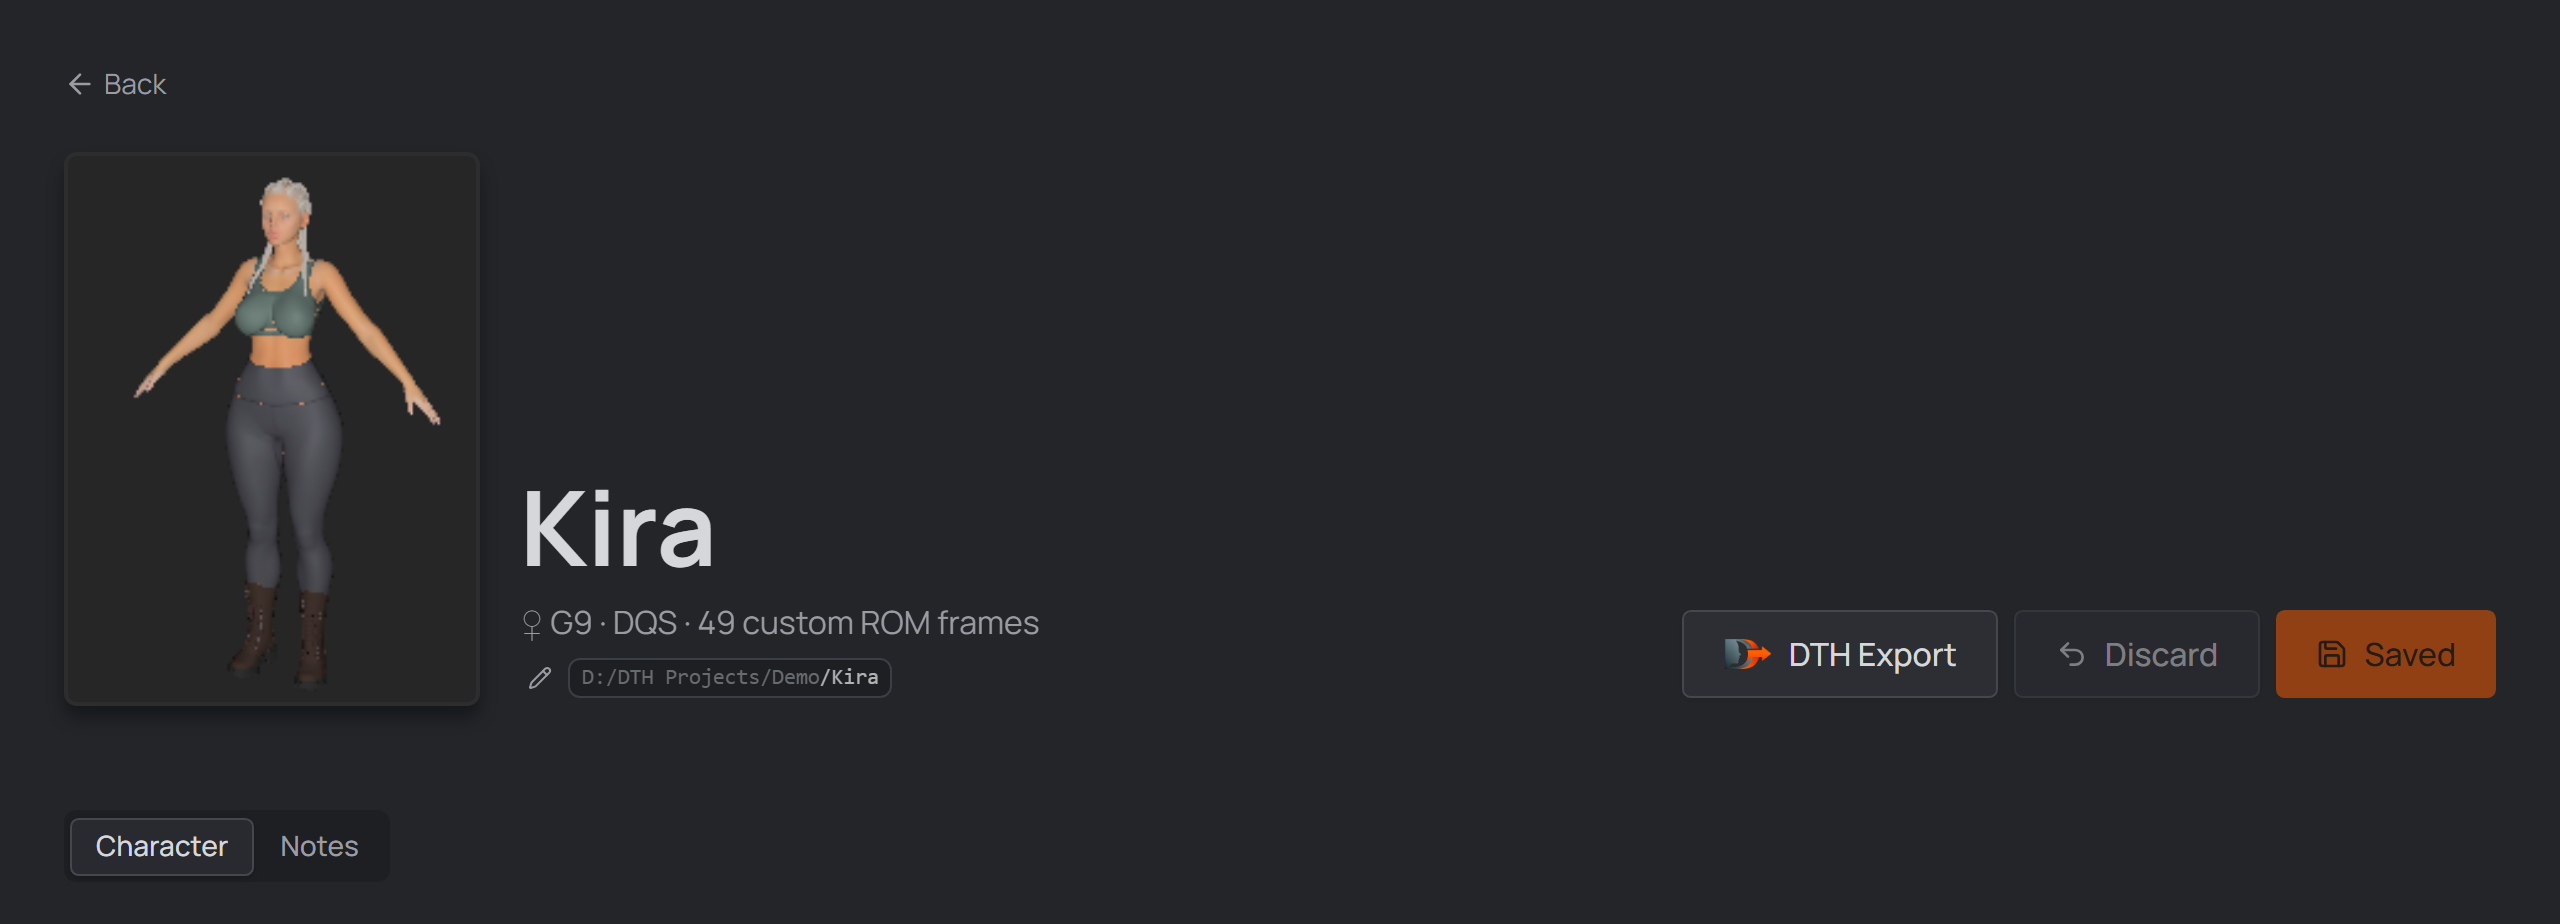
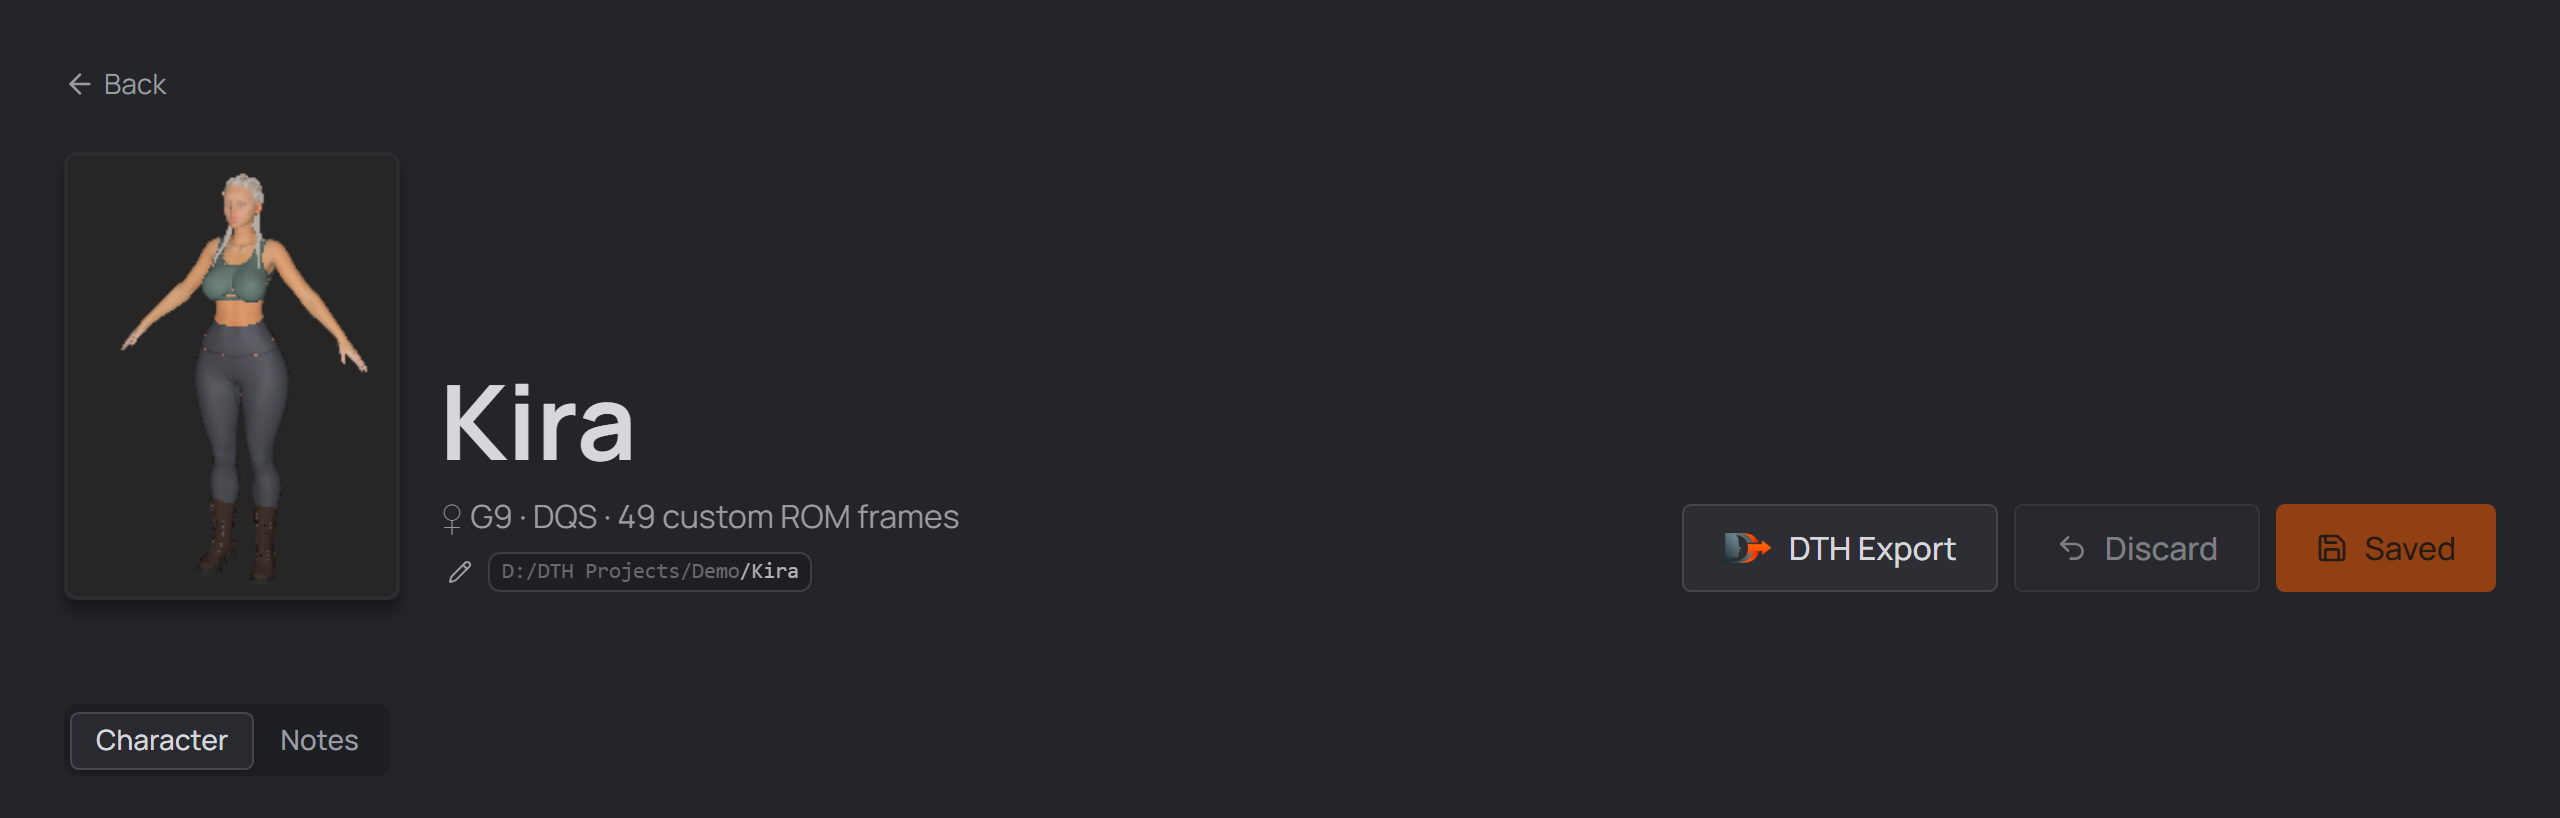
feat(web): dial the character-header portrait back to 168x224 (#667)
* feat(web): dial the character-header portrait back to 168x224

The 208x277 resting portrait read as too dominant next to the title.
One proportional notch down (~80%): wrapper 168x224 (same 3:4), the
collapsed sticky tile 120 -> 96, and every coupled constant scaled with
it - the over-scan image layout (316 -> 254, so the resting frame still
paints 1:1 with no GPU upscaling), renderPx for the Lanczos
pre-downscale, the centering margins, the dth-avatar-shrink keyframes,
and the "Back | Scroll Up" offset (228 -> 188). The pan/zoom
choreography is percentage/scale-based and needed no change.

Claude-Session: https://claude.ai/code/session_01Fhwa5xWus8FxN9k5Z4c4Ee

* docs(guide): regenerate character-header.png at the new portrait size

The guide's character-header screenshot frames exactly the portrait this
branch resizes — regenerated (pnpm --filter @dth/web screenshots) so the
public docs show the 168x224 header instead of the old 208x277 one. Only
this shot includes the header; the section screenshots are card-scoped.

Claude-Session: https://claude.ai/code/session_01Fhwa5xWus8FxN9k5Z4c4Ee

---------

diff --git a/apps/web/src/components/character/editor-header.tsx b/apps/web/src/components/character/editor-header.tsx
@@ -165,8 +165,8 @@ export function EditorHeader({
             joined by a "Scroll Up" that jumps back to the page top, a step
             darker so Back stays the primary action. */}
         {/* top-5 matches the avatar's mt-5, so the link tops align; left aligns
-            with the title beside the avatar (208px box + gap-5). */}
-        <div className="backlink-scroll absolute top-5 left-[228px] z-20 flex items-center gap-2">
+            with the title beside the avatar (168px box + gap-5). */}
+        <div className="backlink-scroll absolute top-5 left-[188px] z-20 flex items-center gap-2">
           <Link
             to="/projects/$projectId"
             params={{ projectId }}
@@ -209,32 +209,32 @@ export function EditorHeader({
           title="Edit the character image"
           onClick={() => setImageDialogOpen(true)}
         >
-          {/* The wrapper owns the shrink: only its height animates (277 → 120).
-              At rest it's a 3:4 portrait (208×277); collapsed it's a 26:15
-              landscape (208×120). It clips a fixed-size image via overflow-hidden,
+          {/* The wrapper owns the shrink: only its height animates (224 → 96).
+              At rest it's a 3:4 portrait (168×224); collapsed it's a 7:4
+              landscape (168×96). It clips a fixed-size image via overflow-hidden,
               so the portrait is *cropped* top-down rather than re-fit every frame
               — the image is rasterized once and the box just changes its clip
               rect, which stays smooth even with the heavy form relaying out below
               the sticky header. */}
-          <div className="avatar-scroll-shrink h-[277px] w-[208px] overflow-hidden rounded-lg bg-[#262626]">
+          <div className="avatar-scroll-shrink h-[224px] w-[168px] overflow-hidden rounded-lg bg-[#262626]">
             <Avatar
               image={character.image}
               name={character.name}
-              // A square image LAID OUT at the rest over-scan size (316px = the
-              // wrapper's 204px content box × the old 1.55 rest scale, centred with
-              // the -56px margins) so it fills the wrapper at scale 1 — no GPU
+              // A square image LAID OUT at the rest over-scan size (254px = the
+              // wrapper's 164px content box × the 1.55 rest scale, centred with
+              // the -45px margins) so it fills the wrapper at scale 1 — no GPU
               // up-scaling of a small texture, so the resting portrait stays crisp.
               // The zoom keyframes push in from there (see avatar-scroll-pan/zoom).
               // Fixed px, not %, because a replaced <img>'s percentage width was
               // silently ignored here and % resolves against the bordered content box.
               // `max-w-none` defeats Tailwind preflight's `img { max-width: 100% }`,
-              // which would otherwise cap the 316px width back to the wrapper.
-              className="avatar-scroll-pan h-[316px] w-[316px] max-w-none -ml-[56px] -mt-[56px] object-top"
-              fallbackClassName="text-8xl"
+              // which would otherwise cap the 254px width back to the wrapper.
+              className="avatar-scroll-pan h-[254px] w-[254px] max-w-none -ml-[45px] -mt-[45px] object-top"
+              fallbackClassName="text-7xl"
               // Serve the avatar pre-downscaled (Rust Lanczos3) to the painted
-              // 316px × screen DPR, so it paints 1:1 — anti-aliased, no GPU
+              // 254px × screen DPR, so it paints 1:1 — anti-aliased, no GPU
               // resampling of the 768px master.
-              renderPx={316}
+              renderPx={254}
             />
           </div>
           {/* Hover affordance — the avatar is editable in every state now (a

diff --git a/apps/web/src/styles.css b/apps/web/src/styles.css
@@ -190,8 +190,8 @@ a {
 }
 
 /* Collapsing header: this animates the HEIGHT of the avatar *wrapper* (not the
-   image). The wrapper is overflow-hidden around a fixed 208×277 image (a 3:4
-   portrait at rest), so the box goes 208×277 → 208×120 (a 26:15 landscape when
+   image). The wrapper is overflow-hidden around a fixed 168×224 image (a 3:4
+   portrait at rest), so the box goes 168×224 → 168×96 (a 7:4 landscape when
    collapsed) and simply crops the portrait top-down — its width, right edge, and
    the title beside it never move.
    Animating the wrapper's clip (rather than the <img>'s own height with
@@ -202,12 +202,12 @@ a {
    guarantees a smooth fade. */
 @keyframes dth-avatar-shrink {
   from {
-    height: 277px;
+    height: 224px;
     box-shadow: 0px 6px 8px 0 rgb(0 0 0 / 0.35);
     border-color: #2d2d2d;
   }
   to {
-    height: 120px;
+    height: 96px;
     box-shadow: 2px 6px 8px 0 rgb(0 0 0 / 0.75);
     border-color: #303030;
   }

diff --git a/.changeset/smaller-header-portrait.md b/.changeset/smaller-header-portrait.md
@@ -1,0 +1,11 @@
+---
+'@dth/desktop': patch
+'@dth/web': patch
+'@dth/rom': patch
+'@dth/ui': patch
+---
+
+The character page's header portrait steps back down to a calmer size —
+168×224 at rest (was 208×277), with the collapsed sticky tile shrinking in
+proportion. The scroll collapse, the crisp 1:1 rendering and the header
+alignment all scale along untouched.
